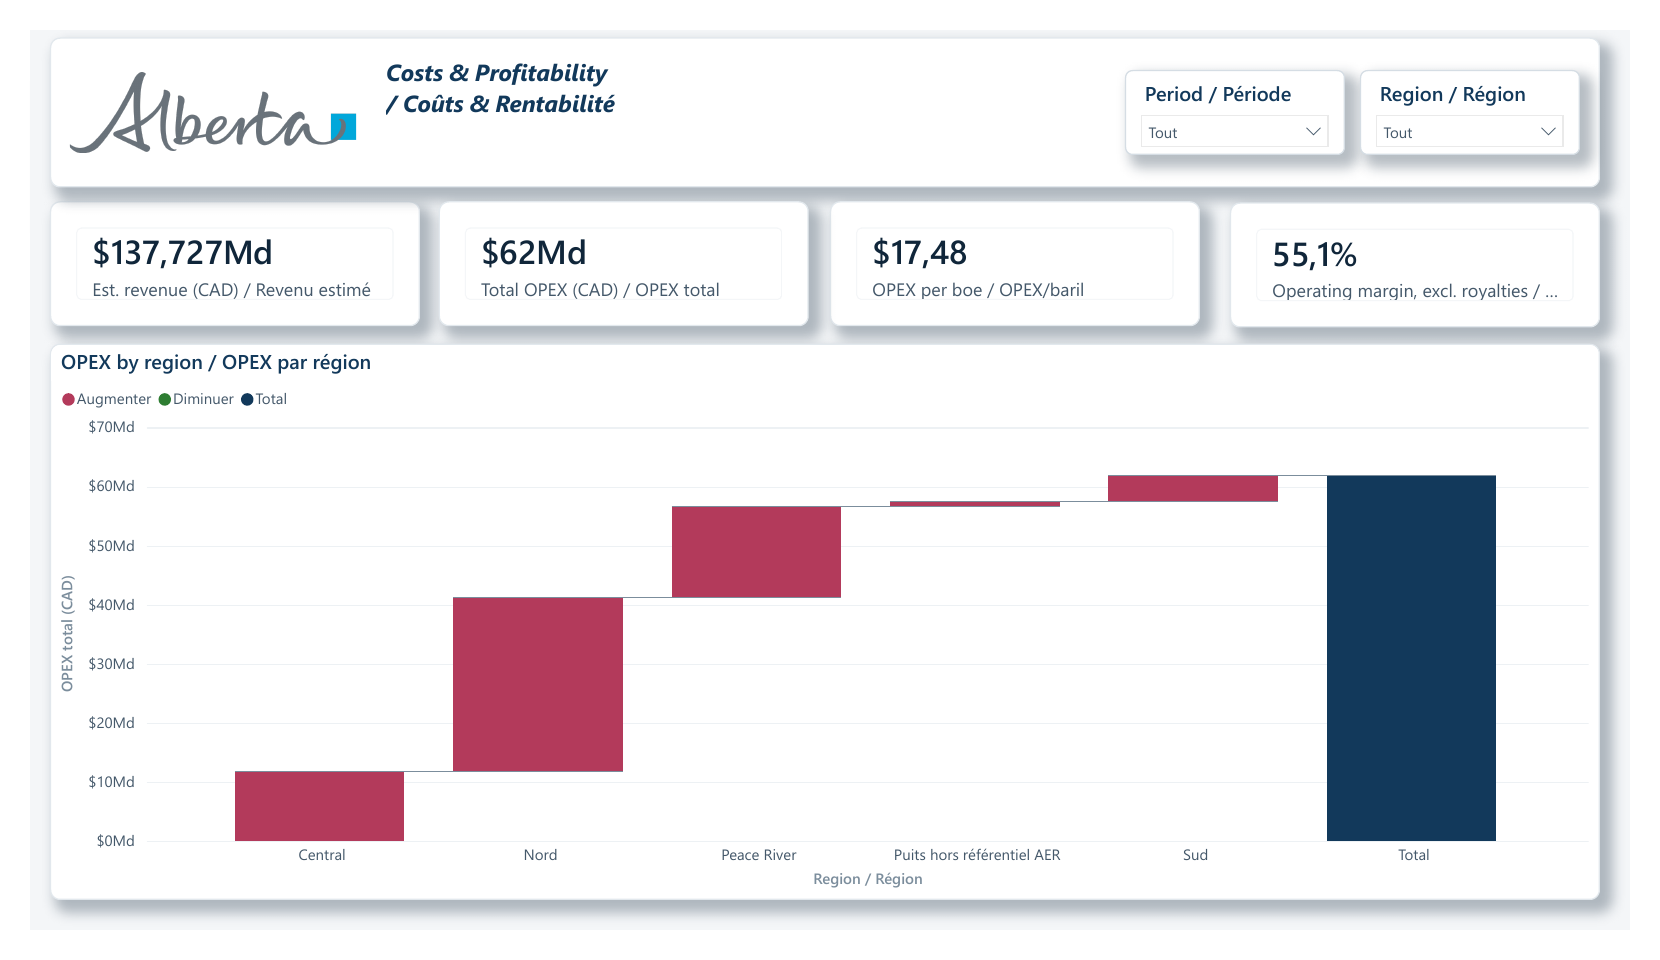
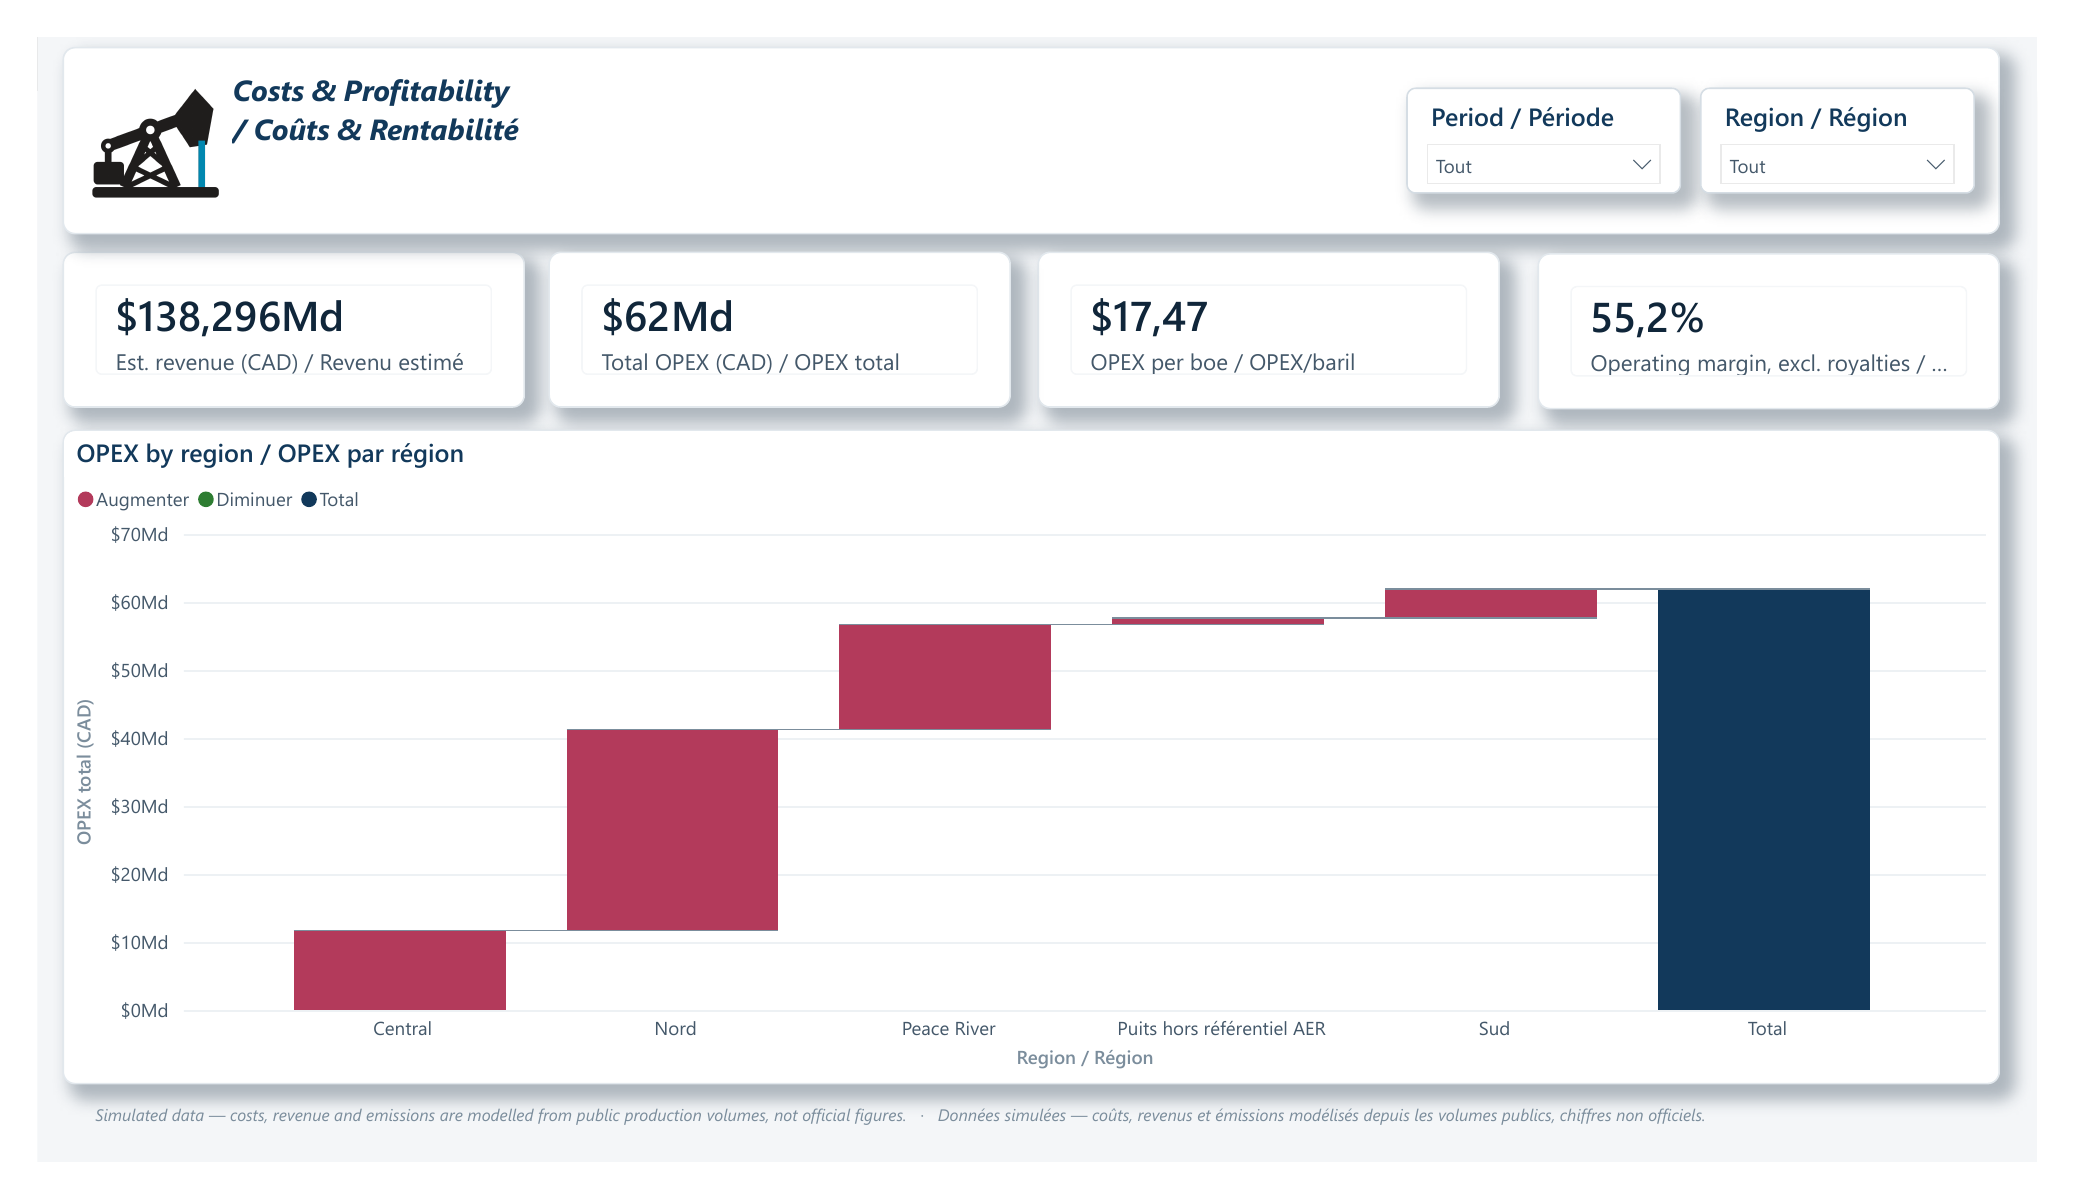
docs: refresh the screenshots and resync every figure with the data
The five screenshots still showed the Government of Alberta wordmark and
predated the simulation banner, so the README's front page contradicted
the report it documents. Re-exported from Power BI at 2075x1200.

Figures move with them. The pipeline was rebuilt from source and the
window now runs to June 2026, so production, revenue, OPEX and CO2 all
shift by roughly half a percent.

One was not drift but an error: the inactive well inventory read "66,984
abandoned" against 279,228 in the register, in the section that calls
that inventory the most interesting non-simulated finding here. It now
reads 278,554, the count that is both abandoned and non-producing.

diff --git a/README.md b/README.md
@@ -14,9 +14,9 @@ modelled into a star schema, and reported in Power BI.
 
 | | | |
 |---|---|---|
-| **3.54 Bn boe** produced | **598,396** wells on the register | **3,015** operators |
-| **24 months** of filings | **149,340** producing wells | **4.34M** fact rows |
-| **CAD 137.7 Bn** revenue | **$17.48** OPEX per barrel | **194.6 Mt** Scope 1 CO₂ |
+| **3.55 Bn boe** produced | **599,275** wells on the register | **3,016** operators |
+| **24 months** of filings | **148,693** producing wells | **4.34M** fact rows |
+| **CAD 138.3 Bn** revenue | **$17.47** OPEX per barrel | **195.2 Mt** Scope 1 CO₂ |
 
 Production volumes, prices and well locations are real. Costs and emissions are
 simulated from those volumes using AER and NIR 2024 factors. Full assumptions in
@@ -41,7 +41,7 @@ difference in cost structure. It wasn't. Lined up against gas share:
 A near-perfect inverse relationship. Cost structures don't behave like that; **unit
 errors do**. Petrinex reports gas in 10³m³, not m³, and the rescaling existed in the
 production branch of the pipeline but not the cost branch. Numerator and denominator
-were in different units. After the fix, OPEX/boe sits between **$17.38 and $17.61 across
+were in different units. After the fix, OPEX/boe sits between **$17.43 and $17.57 across
 all five regions**.
 
 The second bug had the same shape. Emissions were generated for every Petrinex record,
@@ -85,7 +85,7 @@ because that's exactly where the unit bug surfaced.
 ![ESG performance](docs/screenshots/p4_esg.png)
 
 Scope 1 CO₂ and CO₂e against Alberta's 2030 intensity target, missed by 37.5%. The
-conversion is checkable by hand: 194.6 + 2.21 × 28 = 256.5 Mt.
+conversion is checkable by hand: 195.2 + 2.22 × 28 = 257.3 Mt.
 
 ### Forecast and trends
 
@@ -194,14 +194,14 @@ Setup, sources, model detail, DAX and assumptions: [`docs/ARCHITECTURE.md`](docs
 
 ## What I'd do next
 
-The **inactive well inventory** is the piece I want most. 449,057 wells with no
-production, 66,984 of them abandoned, which is 75% of the register. Reclamation
+The **inactive well inventory** is the piece I want most. 450,582 wells with no
+production, 278,554 of them already abandoned, which is 75% of the register. Reclamation
 liability is a live financial and political issue in Alberta, the data is already in the
 model, and it's the one genuinely non-simulated finding here that I haven't used.
 
 CAPEX needs recalibrating: it lands near $33k per well against a real $2 to 8 million,
-and it isn't surfaced anywhere yet. Data stops at April 2026 and refresh isn't
-automated. Two pages still expose UWI slicers with 598k values, which needs a search
+and it isn't surfaced anywhere yet. Data stops at June 2026 and refresh isn't
+automated. Two pages still expose UWI slicers with 599k values, which needs a search
 control instead.
 
 ---
